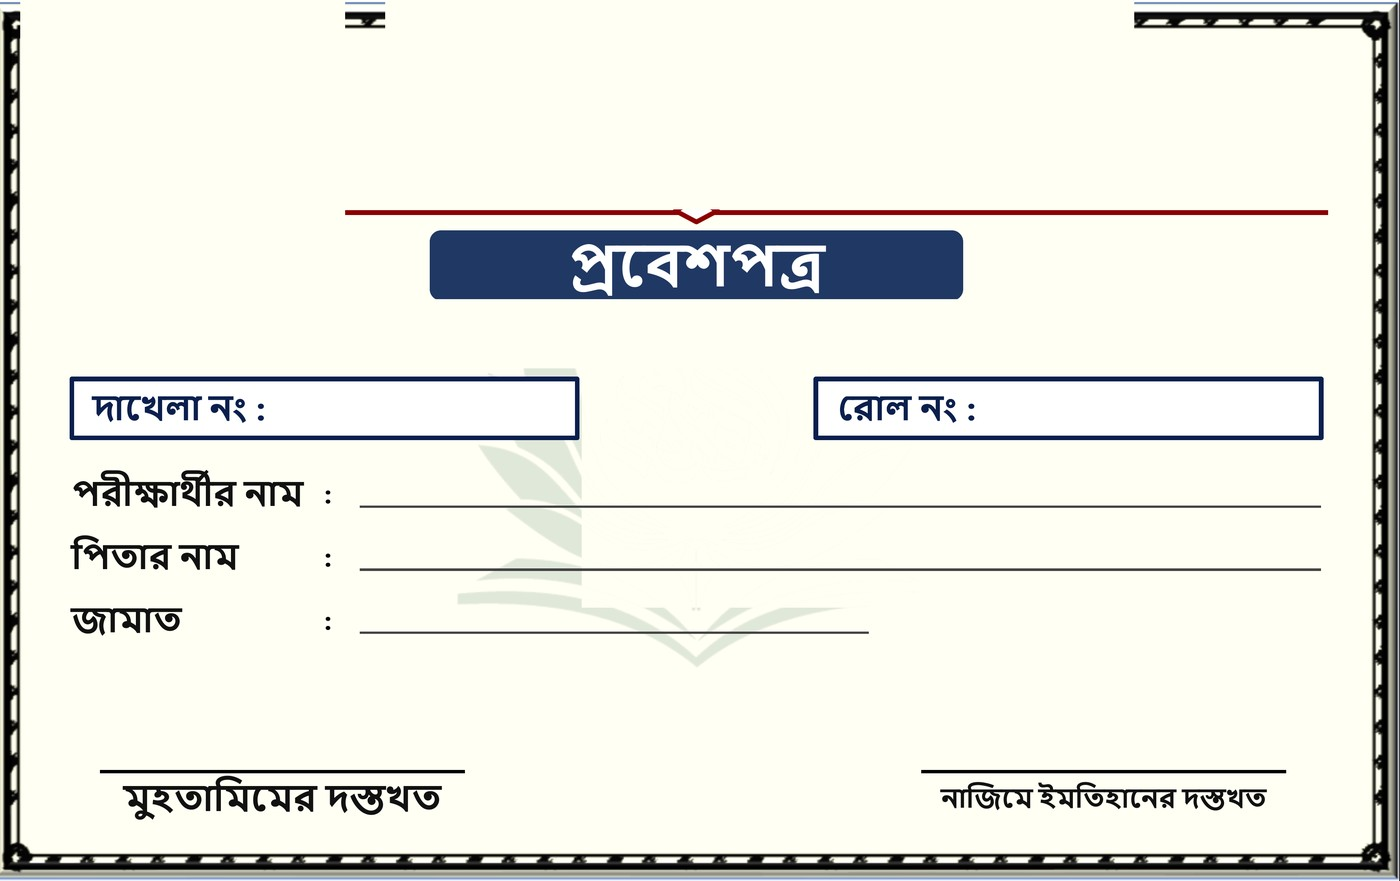
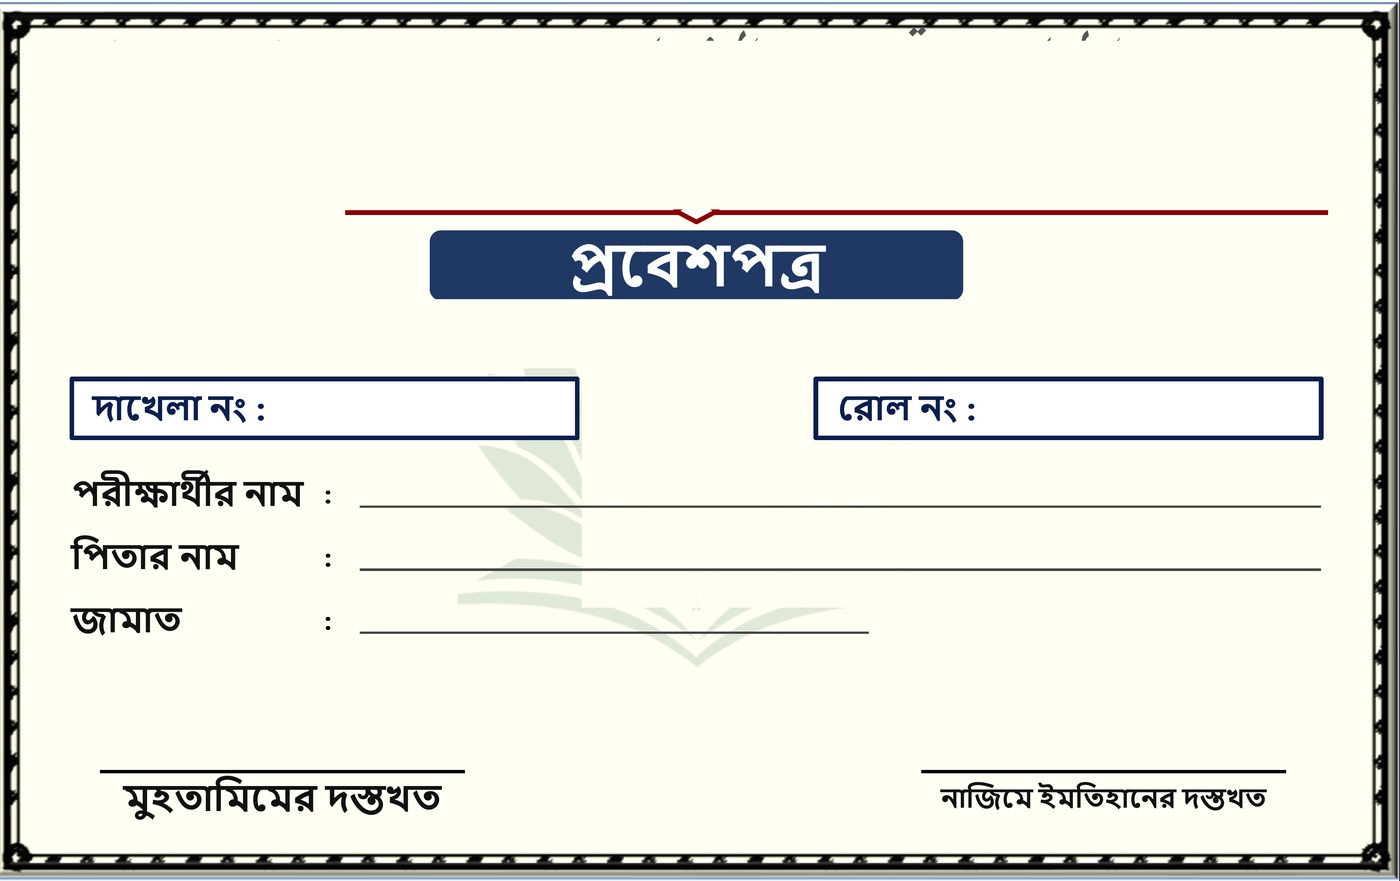
fix(admit-card): repair broken top border, center card on page, larger fonts

Changed region(s): [[0.2764, 0.0, 0.8293, 0.0613], [0.0, 0.0, 0.2457, 0.0613]]

diff --git a/client/src/lib/printReport.ts b/client/src/lib/printReport.ts
@@ -790,7 +790,10 @@ const ADMIT_CARD_STYLES = `
   .ac-page {
     display: flex;
     flex-direction: column;
-    gap: 7mm;
+    align-items: center;
+    justify-content: center;
+    gap: 8mm;
+    min-height: calc(297mm - 16mm);
     page-break-after: always;
   }
   .ac-page:last-child { page-break-after: auto; }
@@ -818,11 +821,11 @@ const ADMIT_CARD_STYLES = `
     white-space: nowrap; overflow: hidden; text-overflow: ellipsis;
     color: #111; font-weight: 700;
   }
-  .ac-instname { font-size: 6.2mm; color: #00563f; font-weight: 800; transform: translateY(-100%); }
-  .ac-addr { font-size: 2.6mm; color: #334155; font-weight: 600; transform: translateY(-100%); }
-  .ac-examline { font-size: 3.4mm; font-weight: 700; transform: translateY(-100%); text-align: center; }
-  .ac-val { font-size: 3.4mm; transform: translateY(-100%); }
-  .ac-examdate { font-size: 2.9mm; text-decoration: underline; transform: translateY(-100%); }
+  .ac-instname { font-size: 6.8mm; color: #00563f; font-weight: 800; transform: translateY(-100%); }
+  .ac-addr { font-size: 3mm; color: #334155; font-weight: 600; transform: translateY(-100%); }
+  .ac-examline { font-size: 3.9mm; font-weight: 700; transform: translateY(-100%); text-align: center; }
+  .ac-val { font-size: 4mm; transform: translateY(-100%); }
+  .ac-examdate { font-size: 3.3mm; text-decoration: underline; transform: translateY(-100%); }
 `;
 
 /** Millimeter coordinates (from card top-left) for every dynamic field, measured from the reference artwork. */
